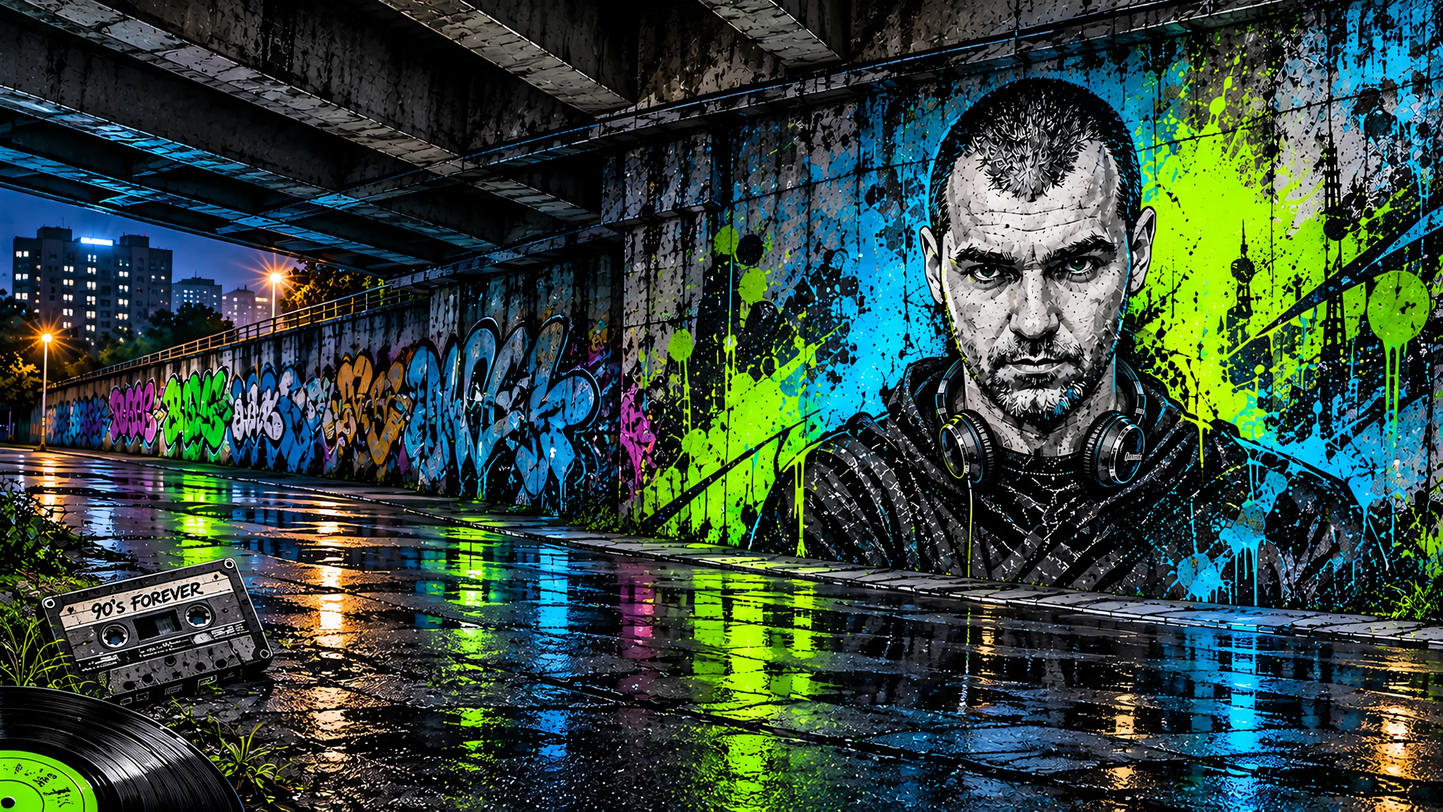
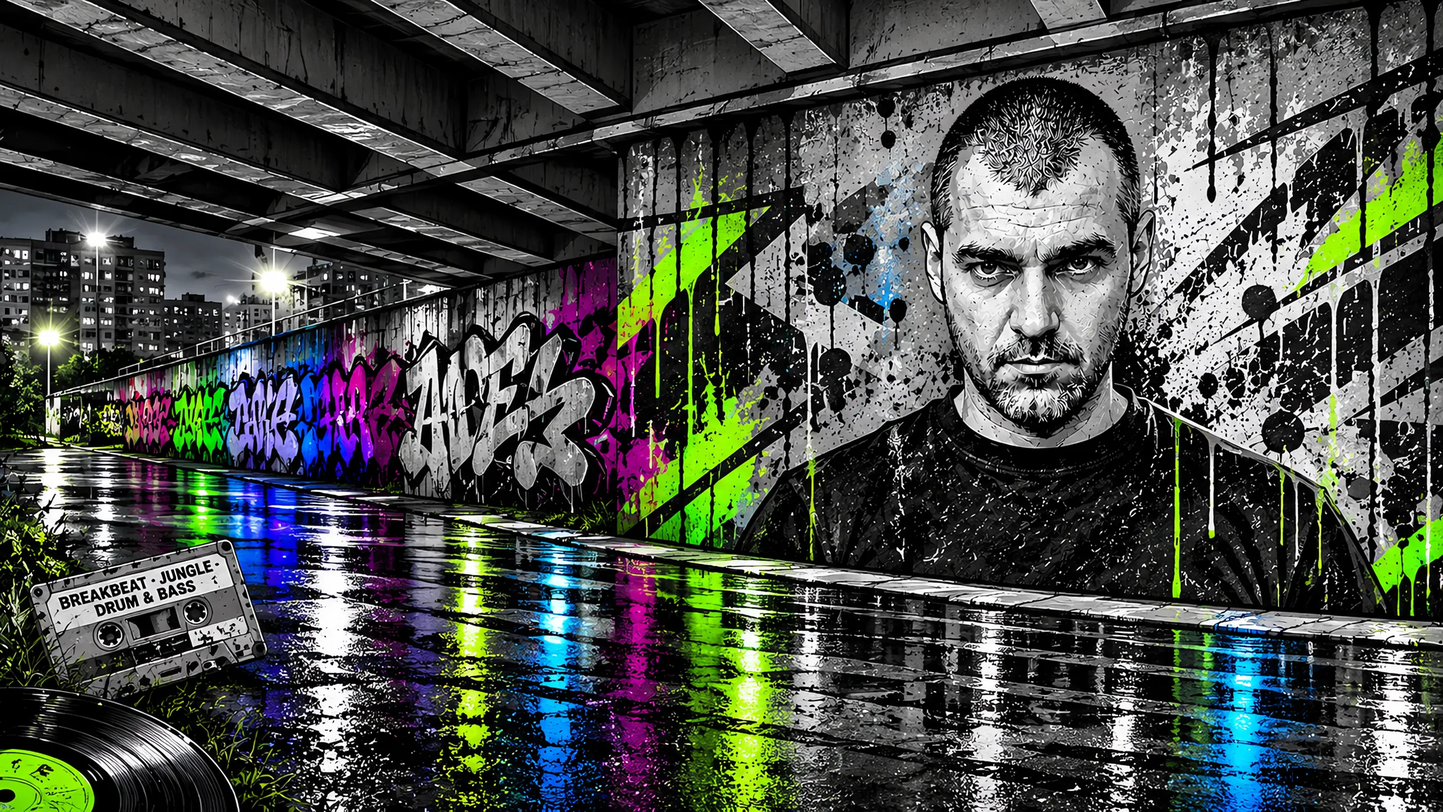
Новый фон главной от Лёши 26.11: ч/б стена с неоном, без наушников

diff --git a/sajt2/index.html b/sajt2/index.html
@@ -1,1 +1,1 @@
-<!doctype html><html lang="ru"><head><meta charset="utf-8"><meta name="robots" content="noindex, nofollow"><meta name="viewport" content="width=device-width,initial-scale=1,viewport-fit=cover"><title>Alex Freeman · DJ и продюсер, Ростов-на-Дону</title><meta name="description" content="Миксы и радиошоу «Наломали дров» Alex Freeman: слушайте прямо на сайте"><meta name="theme-color" content="#0B0D10"><link rel="icon" href="assets/af-96.webp"><link rel="preload" as="image" href="assets/ulica-mob-780.webp" media="(max-width:719px)"><link rel="preload" as="image" href="assets/ulica-1672.webp" imagesrcset="assets/ulica-960.webp 960w, assets/ulica-1672.webp 1672w, assets/ulica-2560.webp 2560w" imagesizes="100vw" media="(min-width:720px)"><link rel="preconnect" href="https://fonts.googleapis.com"><link rel="preconnect" href="https://fonts.gstatic.com" crossorigin><link href="https://fonts.googleapis.com/css2?family=Golos+Text:wght@400;500&family=Oswald:wght@400;500&display=swap" rel="stylesheet"><link rel="stylesheet" href="styles.css"><script src="app.js" defer></script><script src="plastinka.js" defer></script></head><body><a class="skip" href="#main">К содержанию</a><div class="top" role="banner"><div class="top__in"><a class="top__logo" href="index.html" aria-label="Alex Freeman, на главную"><img data-3d src="assets/af-192.webp" width="110" height="73" alt="AF"></a><nav class="nav" aria-label="Разделы"><a href="index.html" aria-current=page>Главная</a><a href="muzyka.html">Музыка</a><a href="nalomali-drov.html">Наломали дров</a><a href="strimy.html">Стримы</a><a href="vystupleniya.html">Выступления</a><a href="obo-mne.html">Обо мне</a><a href="novosti.html">Новости</a><a href="kontakty.html">Контакты</a></nav><div class="top__right"><a class="efir" href="nalomali-drov.html"><span class="efir__dot"></span><span class="efir__t">Эфир <span class="efir__day">в четверг </span><span class="efir__short">чт </span>22:00</span></a><a class="soc" href="https://t.me/AlexFreemanRostov" target="_blank" rel="noopener" aria-label="Telegram-канал"><svg viewBox="0 0 24 24" fill="currentColor" aria-hidden="true"><path d="M21.4 4.6 2.9 11.7c-1.3.5-1.3 1.2-.2 1.5l4.7 1.5 1.8 5.6c.2.6.1.9.8.9.5 0 .7-.2 1-.5l2.3-2.2 4.8 3.5c.9.5 1.5.2 1.7-.8l3.1-14.7c.3-1.3-.5-1.9-1.5-1.4ZM8.9 14.3l9.4-5.9c.5-.3.9-.1.5.2l-8 7.3-.3 3.4-1.6-5Z"/></svg></a><a class="soc soc--x" href="https://vk.com/alex_freeman_rnd" target="_blank" rel="noopener" aria-label="ВКонтакте"><svg viewBox="0 0 24 24" fill="currentColor" aria-hidden="true"><path d="m9.489.004.729-.003h3.564l.73.003.914.01.433.007.418.011.403.014.388.016.374.021.36.025.345.03.333.033c1.74.196 2.933.616 3.833 1.516.9.9 1.32 2.092 1.516 3.833l.034.333.029.346.025.36.02.373.025.588.012.41.013.644.009.915.004.98-.001 3.313-.003.73-.01.914-.007.433-.011.418-.014.403-.016.388-.021.374-.025.36-.03.345-.033.333c-.196 1.74-.616 2.933-1.516 3.833-.9.9-2.092 1.32-3.833 1.516l-.333.034-.346.029-.36.025-.373.02-.588.025-.41.012-.644.013-.915.009-.98.004-3.313-.001-.73-.003-.914-.01-.433-.007-.418-.011-.403-.014-.388-.016-.374-.021-.36-.025-.345-.03-.333-.033c-1.74-.196-2.933-.616-3.833-1.516-.9-.9-1.32-2.092-1.516-3.833l-.034-.333-.029-.346-.025-.36-.02-.373-.025-.588-.012-.41-.013-.644-.009-.915-.004-.98.001-3.313.003-.73.01-.914.007-.433.011-.418.014-.403.016-.388.021-.374.025-.36.03-.345.033-.333c.196-1.74.616-2.933 1.516-3.833.9-.9 2.092-1.32 3.833-1.516l.333-.034.346-.029.36-.025.373-.02.588-.025.41-.012.644-.013.915-.009ZM6.79 7.3H4.05c.13 6.24 3.25 9.99 8.72 9.99h.31v-3.57c2.01.2 3.53 1.67 4.14 3.57h2.84c-.78-2.84-2.83-4.41-4.11-5.01 1.28-.74 3.08-2.54 3.51-4.98h-2.58c-.56 1.98-2.22 3.78-3.8 3.95V7.3H10.5v6.92c-1.6-.4-3.62-2.34-3.71-6.92Z"/></svg></a><a class="soc soc--x" href="https://youtube.com/@alexfreemanrnd" target="_blank" rel="noopener" aria-label="YouTube"><svg viewBox="0 0 24 24" fill="currentColor" aria-hidden="true"><path d="M23.498 6.186a3.016 3.016 0 0 0-2.122-2.136C19.505 3.545 12 3.545 12 3.545s-7.505 0-9.377.505A3.017 3.017 0 0 0 .502 6.186C0 8.07 0 12 0 12s0 3.93.502 5.814a3.016 3.016 0 0 0 2.122 2.136c1.871.505 9.376.505 9.376.505s7.505 0 9.377-.505a3.015 3.015 0 0 0 2.122-2.136C24 15.93 24 12 24 12s0-3.93-.502-5.814zM9.545 15.568V8.432L15.818 12l-6.273 3.568z"/></svg></a><button class="burger" type="button" aria-label="Меню" aria-expanded="false" aria-controls="mnav"><svg viewBox="0 0 24 24" fill="none" stroke="currentColor" stroke-width="2" stroke-linecap="round" aria-hidden="true"><path d="M4 7h16M4 12h16M4 17h16"/></svg></button></div></div></div><nav class="mnav" id="mnav" aria-label="Разделы"><a href="index.html" aria-current=page>Главная</a><a href="muzyka.html">Музыка</a><a href="nalomali-drov.html">Наломали дров</a><a href="strimy.html">Стримы</a><a href="vystupleniya.html">Выступления</a><a href="obo-mne.html">Обо мне</a><a href="novosti.html">Новости</a><a href="kontakty.html">Контакты</a><div class="mnav__soc"><a class="soc" href="https://t.me/AlexFreemanRostov" target="_blank" rel="noopener" aria-label="Telegram-канал"><svg viewBox="0 0 24 24" fill="currentColor" aria-hidden="true"><path d="M21.4 4.6 2.9 11.7c-1.3.5-1.3 1.2-.2 1.5l4.7 1.5 1.8 5.6c.2.6.1.9.8.9.5 0 .7-.2 1-.5l2.3-2.2 4.8 3.5c.9.5 1.5.2 1.7-.8l3.1-14.7c.3-1.3-.5-1.9-1.5-1.4ZM8.9 14.3l9.4-5.9c.5-.3.9-.1.5.2l-8 7.3-.3 3.4-1.6-5Z"/></svg></a><a class="soc" href="https://vk.com/alex_freeman_rnd" target="_blank" rel="noopener" aria-label="ВКонтакте"><svg viewBox="0 0 24 24" fill="currentColor" aria-hidden="true"><path d="m9.489.004.729-.003h3.564l.73.003.914.01.433.007.418.011.403.014.388.016.374.021.36.025.345.03.333.033c1.74.196 2.933.616 3.833 1.516.9.9 1.32 2.092 1.516 3.833l.034.333.029.346.025.36.02.373.025.588.012.41.013.644.009.915.004.98-.001 3.313-.003.73-.01.914-.007.433-.011.418-.014.403-.016.388-.021.374-.025.36-.03.345-.033.333c-.196 1.74-.616 2.933-1.516 3.833-.9.9-2.092 1.32-3.833 1.516l-.333.034-.346.029-.36.025-.373.02-.588.025-.41.012-.644.013-.915.009-.98.004-3.313-.001-.73-.003-.914-.01-.433-.007-.418-.011-.403-.014-.388-.016-.374-.021-.36-.025-.345-.03-.333-.033c-1.74-.196-2.933-.616-3.833-1.516-.9-.9-1.32-2.092-1.516-3.833l-.034-.333-.029-.346-.025-.36-.02-.373-.025-.588-.012-.41-.013-.644-.009-.915-.004-.98.001-3.313.003-.73.01-.914.007-.433.011-.418.014-.403.016-.388.021-.374.025-.36.03-.345.033-.333c.196-1.74.616-2.933 1.516-3.833.9-.9 2.092-1.32 3.833-1.516l.333-.034.346-.029.36-.025.373-.02.588-.025.41-.012.644-.013.915-.009ZM6.79 7.3H4.05c.13 6.24 3.25 9.99 8.72 9.99h.31v-3.57c2.01.2 3.53 1.67 4.14 3.57h2.84c-.78-2.84-2.83-4.41-4.11-5.01 1.28-.74 3.08-2.54 3.51-4.98h-2.58c-.56 1.98-2.22 3.78-3.8 3.95V7.3H10.5v6.92c-1.6-.4-3.62-2.34-3.71-6.92Z"/></svg></a><a class="soc" href="https://youtube.com/@alexfreemanrnd" target="_blank" rel="noopener" aria-label="YouTube"><svg viewBox="0 0 24 24" fill="currentColor" aria-hidden="true"><path d="M23.498 6.186a3.016 3.016 0 0 0-2.122-2.136C19.505 3.545 12 3.545 12 3.545s-7.505 0-9.377.505A3.017 3.017 0 0 0 .502 6.186C0 8.07 0 12 0 12s0 3.93.502 5.814a3.016 3.016 0 0 0 2.122 2.136c1.871.505 9.376.505 9.376.505s7.505 0 9.377-.505a3.015 3.015 0 0 0 2.122-2.136C24 15.93 24 12 24 12s0-3.93-.502-5.814zM9.545 15.568V8.432L15.818 12l-6.273 3.568z"/></svg></a></div><button class="burger mnav__close" type="button" aria-label="Закрыть меню"><svg viewBox="0 0 24 24" fill="none" stroke="currentColor" stroke-width="2" stroke-linecap="round" aria-hidden="true"><path d="M6 6l12 12M18 6 6 18"/></svg></button></nav><main id="main"><section class="hero" id="hero" data-ideya="magnitola"><picture class="hero__bg"><source media="(max-width:719px)" srcset="assets/ulica-mob-780.webp"><img src="assets/ulica-1672.webp" srcset="assets/ulica-960.webp 960w, assets/ulica-1672.webp 1672w, assets/ulica-2560.webp 2560w" sizes="100vw" width="1672" height="941" alt="Ночная улица под мостом, на стене граффити-портрет Alex Freeman в наушниках" fetchpriority="high"></picture><div class="hero__body"><div class="hero__lead"><h1 class="hero__name"><img class="hero__af" data-3d src="assets/af-192.webp" width="160" height="107" alt=""><img class="hero__wm" src="assets/wordmark-720.webp" srcset="assets/wordmark-360.webp 360w, assets/wordmark-720.webp 720w" sizes="300px" width="300" height="207" alt="Alex Freeman"></h1><p class="hero__role">DJ и продюсер · <span class="nw">Ростов-на-Дону</span></p><button class="listen" type="button" aria-controls="magnitola" aria-expanded="false" data-open-mag data-vau="magnitola"><span class="listen__ic"><svg viewBox="0 0 24 24" fill="currentColor" aria-hidden="true"><path d="M6 4v16l14-8z"/></svg></span>Слушать миксы</button></div><nav class="tiles" aria-label="Главные разделы" data-ideya="plitki-stikery"><a class="tile" href="muzyka.html"><span class="tile__splash"><svg viewBox="0 0 140 140" fill="currentColor" aria-hidden="true"><path d="M70 22c9 0 11 14 20 15s16-9 22-2-6 14-1 22 19 6 19 16-14 8-17 16 9 19 1 25-16-5-24 0-6 20-17 20-10-15-19-17-18 10-24 3 6-15 2-23-18-6-19-16 15-9 15-18-12-15-5-22 15 4 22-3 0-16 9-16z"/><circle cx="122" cy="34" r="5"/><circle cx="22" cy="116" r="4"/><circle cx="118" cy="112" r="3"/><circle cx="18" cy="30" r="3"/></svg></span><span class="tile__ic"><svg viewBox="0 0 24 24" fill="none" stroke="currentColor" stroke-width="1.8" stroke-linecap="round" aria-hidden="true"><path d="M4 15v-3a8 8 0 0 1 16 0v3"/><rect x="3" y="14" width="4" height="7" rx="1.5"/><rect x="17" y="14" width="4" height="7" rx="1.5"/></svg></span><span class="tile__t">Музыка</span><span class="tile__s">Миксы и релизы</span><span class="tile__arr"><svg viewBox="0 0 24 24" fill="none" stroke="currentColor" stroke-width="2" stroke-linecap="round" stroke-linejoin="round" aria-hidden="true"><path d="M5 12h14M13 6l6 6-6 6"/></svg></span></a><a class="tile" href="nalomali-drov.html"><span class="tile__splash"><svg viewBox="0 0 140 140" fill="currentColor" aria-hidden="true"><path d="M70 22c9 0 11 14 20 15s16-9 22-2-6 14-1 22 19 6 19 16-14 8-17 16 9 19 1 25-16-5-24 0-6 20-17 20-10-15-19-17-18 10-24 3 6-15 2-23-18-6-19-16 15-9 15-18-12-15-5-22 15 4 22-3 0-16 9-16z"/><circle cx="122" cy="34" r="5"/><circle cx="22" cy="116" r="4"/><circle cx="118" cy="112" r="3"/><circle cx="18" cy="30" r="3"/></svg></span><span class="tile__ic"><svg viewBox="0 0 24 24" fill="none" stroke="currentColor" stroke-width="1.8" stroke-linecap="round" aria-hidden="true"><rect x="3" y="8" width="18" height="12" rx="2"/><path d="m7 8 9-5"/><circle cx="15.5" cy="14" r="2.5"/><path d="M6.5 12h3M6.5 15h3M6.5 18h3"/></svg></span><span class="tile__t">Наломали дров</span><span class="tile__s">Радиошоу</span><span class="tile__arr"><svg viewBox="0 0 24 24" fill="none" stroke="currentColor" stroke-width="2" stroke-linecap="round" stroke-linejoin="round" aria-hidden="true"><path d="M5 12h14M13 6l6 6-6 6"/></svg></span></a><a class="tile" href="strimy.html"><span class="tile__splash"><svg viewBox="0 0 140 140" fill="currentColor" aria-hidden="true"><path d="M70 22c9 0 11 14 20 15s16-9 22-2-6 14-1 22 19 6 19 16-14 8-17 16 9 19 1 25-16-5-24 0-6 20-17 20-10-15-19-17-18 10-24 3 6-15 2-23-18-6-19-16 15-9 15-18-12-15-5-22 15 4 22-3 0-16 9-16z"/><circle cx="122" cy="34" r="5"/><circle cx="22" cy="116" r="4"/><circle cx="118" cy="112" r="3"/><circle cx="18" cy="30" r="3"/></svg></span><span class="tile__ic"><svg viewBox="0 0 24 24" fill="none" stroke="currentColor" stroke-width="1.8" stroke-linejoin="round" aria-hidden="true"><rect x="2.5" y="4.5" width="19" height="15" rx="2.5"/><path d="M10 9v6l5-3z"/></svg></span><span class="tile__t">Стримы</span><span class="tile__s">Записи и видео</span><span class="tile__arr"><svg viewBox="0 0 24 24" fill="none" stroke="currentColor" stroke-width="2" stroke-linecap="round" stroke-linejoin="round" aria-hidden="true"><path d="M5 12h14M13 6l6 6-6 6"/></svg></span></a><a class="tile" href="vystupleniya.html"><span class="tile__splash"><svg viewBox="0 0 140 140" fill="currentColor" aria-hidden="true"><path d="M70 22c9 0 11 14 20 15s16-9 22-2-6 14-1 22 19 6 19 16-14 8-17 16 9 19 1 25-16-5-24 0-6 20-17 20-10-15-19-17-18 10-24 3 6-15 2-23-18-6-19-16 15-9 15-18-12-15-5-22 15 4 22-3 0-16 9-16z"/><circle cx="122" cy="34" r="5"/><circle cx="22" cy="116" r="4"/><circle cx="118" cy="112" r="3"/><circle cx="18" cy="30" r="3"/></svg></span><span class="tile__ic"><svg viewBox="0 0 24 24" fill="none" stroke="currentColor" stroke-width="1.8" stroke-linecap="round" aria-hidden="true"><rect x="3" y="5" width="18" height="16" rx="2"/><path d="M3 10h18M8 3v4M16 3v4M7.5 14h2M11 14h2M14.5 14h2M7.5 17.5h2M11 17.5h2"/></svg></span><span class="tile__t">Выступления</span><span class="tile__s">Афиши и фото</span><span class="tile__arr"><svg viewBox="0 0 24 24" fill="none" stroke="currentColor" stroke-width="2" stroke-linecap="round" stroke-linejoin="round" aria-hidden="true"><path d="M5 12h14M13 6l6 6-6 6"/></svg></span></a></nav></div></section><section class="sec" id="svezhee"><div class="wrap"><img class="kaplya" src="assets/kaplya.webp" width="112" height="217" alt="" loading="lazy"><h2 class="sec__h">Свежее</h2><div class="cards cards--2" role="region" aria-label="Свежие выпуски"><article class="card"><p class="card__k">Радиошоу</p><h3 class="card__t">Наломали дров #37</h3><p class="card__m">В гостях Beats'on&nbsp;· <span class="nw">19 ноября 2026&nbsp;· ESM FM</span></p><iframe class="player" src="https://audio.com/embed/v2/audio/1882230098701925?theme=custom&amp;themeSurface=%2314171C&amp;themeText=%23F2F2EE&amp;themeAccent=%2394F800&amp;themeStroke=%233A3A3A&amp;layout=flex" title="Плеер: Наломали дров #37" loading="lazy" referrerpolicy="no-referrer"></iframe><a class="more" href="nalomali-drov.html#vypuski">Все выпуски<svg viewBox="0 0 24 24" fill="none" stroke="currentColor" stroke-width="2" stroke-linecap="round" stroke-linejoin="round" aria-hidden="true"><path d="M5 12h14M13 6l6 6-6 6"/></svg></a></article><article class="card"><p class="card__k">Микс</p><h3 class="card__t">Микс от Alex Freeman</h3><p class="card__m">Наломали дров #12 · 28 мая 2026</p><iframe class="player" src="https://audio.com/embed/v2/audio/1881409443450464?theme=custom&amp;themeSurface=%2314171C&amp;themeText=%23F2F2EE&amp;themeAccent=%2394F800&amp;themeStroke=%233A3A3A&amp;layout=flex" title="Плеер: Наломали дров #12, микс Alex Freeman" loading="lazy" referrerpolicy="no-referrer"></iframe><a class="more" href="muzyka.html">Вся музыка<svg viewBox="0 0 24 24" fill="none" stroke="currentColor" stroke-width="2" stroke-linecap="round" stroke-linejoin="round" aria-hidden="true"><path d="M5 12h14M13 6l6 6-6 6"/></svg></a></article></div></div></section><section class="sec" id="blizhayshee"><div class="wrap"><div class="sec__row"><h2 class="sec__h">Где услышать</h2><a class="more" href="vystupleniya.html">Все выступления<svg viewBox="0 0 24 24" fill="none" stroke="currentColor" stroke-width="2" stroke-linecap="round" stroke-linejoin="round" aria-hidden="true"><path d="M5 12h14M13 6l6 6-6 6"/></svg></a></div><div class="cards cards--2"><article class="card"><p class="card__k">Вечеринка</p><div class="when"><span class="when__d">12 декабря · 21:00</span><span class="when__c" data-date="2026-12-12"></span></div><h3 class="card__t">THE PRODIGY RAVE TRIBUTE</h3><p class="card__m">«DRУГОЙ FORMAT» · К33<br><span class="nw">Красноармейская, 33</span>&nbsp;· <span class="nw">Ростов-на-Дону</span></p><a class="more more--pill" href="https://yandex.ru/maps/?text=%D0%A0%D0%BE%D1%81%D1%82%D0%BE%D0%B2-%D0%BD%D0%B0-%D0%94%D0%BE%D0%BD%D1%83%2C%20%D0%9A%D1%80%D0%B0%D1%81%D0%BD%D0%BE%D0%B0%D1%80%D0%BC%D0%B5%D0%B9%D1%81%D0%BA%D0%B0%D1%8F%2033" target="_blank" rel="noopener">Как добраться<span class="sr"> (откроется Яндекс Карты)</span><svg viewBox="0 0 24 24" fill="none" stroke="currentColor" stroke-width="2" stroke-linecap="round" stroke-linejoin="round" aria-hidden="true"><path d="M5 12h14M13 6l6 6-6 6"/></svg></a></article><article class="card"><p class="card__k">В эфире</p><div class="when"><span class="when__d">Каждый четверг · 22:00</span></div><h3 class="card__t card__t--s">Радиошоу «Наломали дров»</h3><p class="card__m">На ESM FM, время московское</p><a class="more" href="nalomali-drov.html">О радиошоу<svg viewBox="0 0 24 24" fill="none" stroke="currentColor" stroke-width="2" stroke-linecap="round" stroke-linejoin="round" aria-hidden="true"><path d="M5 12h14M13 6l6 6-6 6"/></svg></a></article></div></div></section></main><footer class="foot" id="podval"><div class="wrap foot__in"><div class="foot__brand"><img data-3d src="assets/af-96.webp" width="56" height="37" alt="" loading="lazy"><span>Alex Freeman<small>DJ и продюсер · <span class="nw">Ростов-на-Дону</span></small></span></div><nav class="foot__links" aria-label="Площадки"><a href="https://t.me/AlexFreemanRostov" target="_blank" rel="noopener"><svg viewBox="0 0 24 24" fill="currentColor" aria-hidden="true"><path d="M21.4 4.6 2.9 11.7c-1.3.5-1.3 1.2-.2 1.5l4.7 1.5 1.8 5.6c.2.6.1.9.8.9.5 0 .7-.2 1-.5l2.3-2.2 4.8 3.5c.9.5 1.5.2 1.7-.8l3.1-14.7c.3-1.3-.5-1.9-1.5-1.4ZM8.9 14.3l9.4-5.9c.5-.3.9-.1.5.2l-8 7.3-.3 3.4-1.6-5Z"/></svg>Telegram<span class="sr"> (в новой вкладке)</span></a><a href="https://vk.com/alex_freeman_rnd" target="_blank" rel="noopener"><svg viewBox="0 0 24 24" fill="currentColor" aria-hidden="true"><path d="m9.489.004.729-.003h3.564l.73.003.914.01.433.007.418.011.403.014.388.016.374.021.36.025.345.03.333.033c1.74.196 2.933.616 3.833 1.516.9.9 1.32 2.092 1.516 3.833l.034.333.029.346.025.36.02.373.025.588.012.41.013.644.009.915.004.98-.001 3.313-.003.73-.01.914-.007.433-.011.418-.014.403-.016.388-.021.374-.025.36-.03.345-.033.333c-.196 1.74-.616 2.933-1.516 3.833-.9.9-2.092 1.32-3.833 1.516l-.333.034-.346.029-.36.025-.373.02-.588.025-.41.012-.644.013-.915.009-.98.004-3.313-.001-.73-.003-.914-.01-.433-.007-.418-.011-.403-.014-.388-.016-.374-.021-.36-.025-.345-.03-.333-.033c-1.74-.196-2.933-.616-3.833-1.516-.9-.9-1.32-2.092-1.516-3.833l-.034-.333-.029-.346-.025-.36-.02-.373-.025-.588-.012-.41-.013-.644-.009-.915-.004-.98.001-3.313.003-.73.01-.914.007-.433.011-.418.014-.403.016-.388.021-.374.025-.36.03-.345.033-.333c.196-1.74.616-2.933 1.516-3.833.9-.9 2.092-1.32 3.833-1.516l.333-.034.346-.029.36-.025.373-.02.588-.025.41-.012.644-.013.915-.009ZM6.79 7.3H4.05c.13 6.24 3.25 9.99 8.72 9.99h.31v-3.57c2.01.2 3.53 1.67 4.14 3.57h2.84c-.78-2.84-2.83-4.41-4.11-5.01 1.28-.74 3.08-2.54 3.51-4.98h-2.58c-.56 1.98-2.22 3.78-3.8 3.95V7.3H10.5v6.92c-1.6-.4-3.62-2.34-3.71-6.92Z"/></svg>ВКонтакте<span class="sr"> (в новой вкладке)</span></a><a href="https://youtube.com/@alexfreemanrnd" target="_blank" rel="noopener"><svg viewBox="0 0 24 24" fill="currentColor" aria-hidden="true"><path d="M23.498 6.186a3.016 3.016 0 0 0-2.122-2.136C19.505 3.545 12 3.545 12 3.545s-7.505 0-9.377.505A3.017 3.017 0 0 0 .502 6.186C0 8.07 0 12 0 12s0 3.93.502 5.814a3.016 3.016 0 0 0 2.122 2.136c1.871.505 9.376.505 9.376.505s7.505 0 9.377-.505a3.015 3.015 0 0 0 2.122-2.136C24 15.93 24 12 24 12s0-3.93-.502-5.814zM9.545 15.568V8.432L15.818 12l-6.273 3.568z"/></svg>YouTube<span class="sr"> (в новой вкладке)</span></a><a href="https://vkvideo.ru/@worldhousesession" target="_blank" rel="noopener"><svg viewBox="0 0 24 24" fill="none" stroke="currentColor" stroke-width="1.8" stroke-linejoin="round" aria-hidden="true"><rect x="2.5" y="4.5" width="19" height="15" rx="2.5"/><path d="M10 9v6l5-3z"/></svg>VK Видео<span class="sr"> (в новой вкладке)</span></a><a href="https://rutube.ru/channel/15649489/" target="_blank" rel="noopener"><svg viewBox="0 0 24 24" fill="none" stroke="currentColor" stroke-width="1.8" stroke-linejoin="round" aria-hidden="true"><rect x="2.5" y="4.5" width="19" height="15" rx="2.5"/><path d="M10 9v6l5-3z"/></svg>Rutube<span class="sr"> (в новой вкладке)</span></a></nav><p class="foot__by">Создано: <a href="https://chelovek-neiroset.ru/" target="_blank" rel="noopener">Студия Vikey AI<span class="sr"> (в новой вкладке)</span></a></p></div></footer><aside class="mag" id="magnitola" aria-label="Плеер" aria-hidden="true"><div class="mag__bar"><span class="mag__rec mag__cas"><svg viewBox="0 0 40 28" aria-hidden="true"><rect x="1" y="1" width="38" height="26" rx="3" fill="#0B0D10" stroke="currentColor" stroke-width="1.5"/><rect x="6" y="5" width="28" height="6" rx="1" fill="none" stroke="rgba(242,242,238,.5)"/><circle cx="13" cy="18" r="3.5" fill="none" stroke="currentColor"/><circle cx="27" cy="18" r="3.5" fill="none" stroke="currentColor"/><path d="M9 27l3-4h16l3 4" fill="none" stroke="rgba(242,242,238,.4)"/></svg></span><p class="mag__t">Микс от Alex Freeman <span class="mag__hint">нажмите, чтобы развернуть</span> <small>Наломали дров #12 · 28 мая 2026</small></p><button class="mag__btn mag__min" type="button" aria-label="Свернуть плеер" aria-expanded="true" aria-controls="magbody"><svg viewBox="0 0 24 24" fill="none" stroke="currentColor" stroke-width="2" stroke-linecap="round" stroke-linejoin="round" aria-hidden="true"><path d="m6 9 6 6 6-6"/></svg></button><button class="mag__btn mag__close" type="button" aria-label="Закрыть плеер"><svg viewBox="0 0 24 24" fill="none" stroke="currentColor" stroke-width="2" stroke-linecap="round" aria-hidden="true"><path d="M6 6l12 12M18 6 6 18"/></svg></button></div><div class="mag__body" id="magbody"></div></aside></body></html>
+<!doctype html><html lang="ru"><head><meta charset="utf-8"><meta name="robots" content="noindex, nofollow"><meta name="viewport" content="width=device-width,initial-scale=1,viewport-fit=cover"><title>Alex Freeman · DJ и продюсер, Ростов-на-Дону</title><meta name="description" content="Миксы и радиошоу «Наломали дров» Alex Freeman: слушайте прямо на сайте"><meta name="theme-color" content="#0B0D10"><link rel="icon" href="assets/af-96.webp"><link rel="preload" as="image" href="assets/ulica-mob-780.webp" media="(max-width:719px)"><link rel="preload" as="image" href="assets/ulica-1672.webp" imagesrcset="assets/ulica-960.webp 960w, assets/ulica-1672.webp 1672w, assets/ulica-2560.webp 2560w" imagesizes="100vw" media="(min-width:720px)"><link rel="preconnect" href="https://fonts.googleapis.com"><link rel="preconnect" href="https://fonts.gstatic.com" crossorigin><link href="https://fonts.googleapis.com/css2?family=Golos+Text:wght@400;500&family=Oswald:wght@400;500&display=swap" rel="stylesheet"><link rel="stylesheet" href="styles.css"><script src="app.js" defer></script><script src="plastinka.js" defer></script></head><body><a class="skip" href="#main">К содержанию</a><div class="top" role="banner"><div class="top__in"><a class="top__logo" href="index.html" aria-label="Alex Freeman, на главную"><img data-3d src="assets/af-192.webp" width="110" height="73" alt="AF"></a><nav class="nav" aria-label="Разделы"><a href="index.html" aria-current=page>Главная</a><a href="muzyka.html">Музыка</a><a href="nalomali-drov.html">Наломали дров</a><a href="strimy.html">Стримы</a><a href="vystupleniya.html">Выступления</a><a href="obo-mne.html">Обо мне</a><a href="novosti.html">Новости</a><a href="kontakty.html">Контакты</a></nav><div class="top__right"><a class="efir" href="nalomali-drov.html"><span class="efir__dot"></span><span class="efir__t">Эфир <span class="efir__day">в четверг </span><span class="efir__short">чт </span>22:00</span></a><a class="soc" href="https://t.me/AlexFreemanRostov" target="_blank" rel="noopener" aria-label="Telegram-канал"><svg viewBox="0 0 24 24" fill="currentColor" aria-hidden="true"><path d="M21.4 4.6 2.9 11.7c-1.3.5-1.3 1.2-.2 1.5l4.7 1.5 1.8 5.6c.2.6.1.9.8.9.5 0 .7-.2 1-.5l2.3-2.2 4.8 3.5c.9.5 1.5.2 1.7-.8l3.1-14.7c.3-1.3-.5-1.9-1.5-1.4ZM8.9 14.3l9.4-5.9c.5-.3.9-.1.5.2l-8 7.3-.3 3.4-1.6-5Z"/></svg></a><a class="soc soc--x" href="https://vk.com/alex_freeman_rnd" target="_blank" rel="noopener" aria-label="ВКонтакте"><svg viewBox="0 0 24 24" fill="currentColor" aria-hidden="true"><path d="m9.489.004.729-.003h3.564l.73.003.914.01.433.007.418.011.403.014.388.016.374.021.36.025.345.03.333.033c1.74.196 2.933.616 3.833 1.516.9.9 1.32 2.092 1.516 3.833l.034.333.029.346.025.36.02.373.025.588.012.41.013.644.009.915.004.98-.001 3.313-.003.73-.01.914-.007.433-.011.418-.014.403-.016.388-.021.374-.025.36-.03.345-.033.333c-.196 1.74-.616 2.933-1.516 3.833-.9.9-2.092 1.32-3.833 1.516l-.333.034-.346.029-.36.025-.373.02-.588.025-.41.012-.644.013-.915.009-.98.004-3.313-.001-.73-.003-.914-.01-.433-.007-.418-.011-.403-.014-.388-.016-.374-.021-.36-.025-.345-.03-.333-.033c-1.74-.196-2.933-.616-3.833-1.516-.9-.9-1.32-2.092-1.516-3.833l-.034-.333-.029-.346-.025-.36-.02-.373-.025-.588-.012-.41-.013-.644-.009-.915-.004-.98.001-3.313.003-.73.01-.914.007-.433.011-.418.014-.403.016-.388.021-.374.025-.36.03-.345.033-.333c.196-1.74.616-2.933 1.516-3.833.9-.9 2.092-1.32 3.833-1.516l.333-.034.346-.029.36-.025.373-.02.588-.025.41-.012.644-.013.915-.009ZM6.79 7.3H4.05c.13 6.24 3.25 9.99 8.72 9.99h.31v-3.57c2.01.2 3.53 1.67 4.14 3.57h2.84c-.78-2.84-2.83-4.41-4.11-5.01 1.28-.74 3.08-2.54 3.51-4.98h-2.58c-.56 1.98-2.22 3.78-3.8 3.95V7.3H10.5v6.92c-1.6-.4-3.62-2.34-3.71-6.92Z"/></svg></a><a class="soc soc--x" href="https://youtube.com/@alexfreemanrnd" target="_blank" rel="noopener" aria-label="YouTube"><svg viewBox="0 0 24 24" fill="currentColor" aria-hidden="true"><path d="M23.498 6.186a3.016 3.016 0 0 0-2.122-2.136C19.505 3.545 12 3.545 12 3.545s-7.505 0-9.377.505A3.017 3.017 0 0 0 .502 6.186C0 8.07 0 12 0 12s0 3.93.502 5.814a3.016 3.016 0 0 0 2.122 2.136c1.871.505 9.376.505 9.376.505s7.505 0 9.377-.505a3.015 3.015 0 0 0 2.122-2.136C24 15.93 24 12 24 12s0-3.93-.502-5.814zM9.545 15.568V8.432L15.818 12l-6.273 3.568z"/></svg></a><button class="burger" type="button" aria-label="Меню" aria-expanded="false" aria-controls="mnav"><svg viewBox="0 0 24 24" fill="none" stroke="currentColor" stroke-width="2" stroke-linecap="round" aria-hidden="true"><path d="M4 7h16M4 12h16M4 17h16"/></svg></button></div></div></div><nav class="mnav" id="mnav" aria-label="Разделы"><a href="index.html" aria-current=page>Главная</a><a href="muzyka.html">Музыка</a><a href="nalomali-drov.html">Наломали дров</a><a href="strimy.html">Стримы</a><a href="vystupleniya.html">Выступления</a><a href="obo-mne.html">Обо мне</a><a href="novosti.html">Новости</a><a href="kontakty.html">Контакты</a><div class="mnav__soc"><a class="soc" href="https://t.me/AlexFreemanRostov" target="_blank" rel="noopener" aria-label="Telegram-канал"><svg viewBox="0 0 24 24" fill="currentColor" aria-hidden="true"><path d="M21.4 4.6 2.9 11.7c-1.3.5-1.3 1.2-.2 1.5l4.7 1.5 1.8 5.6c.2.6.1.9.8.9.5 0 .7-.2 1-.5l2.3-2.2 4.8 3.5c.9.5 1.5.2 1.7-.8l3.1-14.7c.3-1.3-.5-1.9-1.5-1.4ZM8.9 14.3l9.4-5.9c.5-.3.9-.1.5.2l-8 7.3-.3 3.4-1.6-5Z"/></svg></a><a class="soc" href="https://vk.com/alex_freeman_rnd" target="_blank" rel="noopener" aria-label="ВКонтакте"><svg viewBox="0 0 24 24" fill="currentColor" aria-hidden="true"><path d="m9.489.004.729-.003h3.564l.73.003.914.01.433.007.418.011.403.014.388.016.374.021.36.025.345.03.333.033c1.74.196 2.933.616 3.833 1.516.9.9 1.32 2.092 1.516 3.833l.034.333.029.346.025.36.02.373.025.588.012.41.013.644.009.915.004.98-.001 3.313-.003.73-.01.914-.007.433-.011.418-.014.403-.016.388-.021.374-.025.36-.03.345-.033.333c-.196 1.74-.616 2.933-1.516 3.833-.9.9-2.092 1.32-3.833 1.516l-.333.034-.346.029-.36.025-.373.02-.588.025-.41.012-.644.013-.915.009-.98.004-3.313-.001-.73-.003-.914-.01-.433-.007-.418-.011-.403-.014-.388-.016-.374-.021-.36-.025-.345-.03-.333-.033c-1.74-.196-2.933-.616-3.833-1.516-.9-.9-1.32-2.092-1.516-3.833l-.034-.333-.029-.346-.025-.36-.02-.373-.025-.588-.012-.41-.013-.644-.009-.915-.004-.98.001-3.313.003-.73.01-.914.007-.433.011-.418.014-.403.016-.388.021-.374.025-.36.03-.345.033-.333c.196-1.74.616-2.933 1.516-3.833.9-.9 2.092-1.32 3.833-1.516l.333-.034.346-.029.36-.025.373-.02.588-.025.41-.012.644-.013.915-.009ZM6.79 7.3H4.05c.13 6.24 3.25 9.99 8.72 9.99h.31v-3.57c2.01.2 3.53 1.67 4.14 3.57h2.84c-.78-2.84-2.83-4.41-4.11-5.01 1.28-.74 3.08-2.54 3.51-4.98h-2.58c-.56 1.98-2.22 3.78-3.8 3.95V7.3H10.5v6.92c-1.6-.4-3.62-2.34-3.71-6.92Z"/></svg></a><a class="soc" href="https://youtube.com/@alexfreemanrnd" target="_blank" rel="noopener" aria-label="YouTube"><svg viewBox="0 0 24 24" fill="currentColor" aria-hidden="true"><path d="M23.498 6.186a3.016 3.016 0 0 0-2.122-2.136C19.505 3.545 12 3.545 12 3.545s-7.505 0-9.377.505A3.017 3.017 0 0 0 .502 6.186C0 8.07 0 12 0 12s0 3.93.502 5.814a3.016 3.016 0 0 0 2.122 2.136c1.871.505 9.376.505 9.376.505s7.505 0 9.377-.505a3.015 3.015 0 0 0 2.122-2.136C24 15.93 24 12 24 12s0-3.93-.502-5.814zM9.545 15.568V8.432L15.818 12l-6.273 3.568z"/></svg></a></div><button class="burger mnav__close" type="button" aria-label="Закрыть меню"><svg viewBox="0 0 24 24" fill="none" stroke="currentColor" stroke-width="2" stroke-linecap="round" aria-hidden="true"><path d="M6 6l12 12M18 6 6 18"/></svg></button></nav><main id="main"><section class="hero" id="hero" data-ideya="magnitola"><picture class="hero__bg"><source media="(max-width:719px)" srcset="assets/ulica-mob-780.webp"><img src="assets/ulica-1672.webp" srcset="assets/ulica-960.webp 960w, assets/ulica-1672.webp 1672w, assets/ulica-2560.webp 2560w" sizes="100vw" width="1672" height="941" alt="Ночная улица под мостом, на стене граффити-портрет Alex Freeman" fetchpriority="high"></picture><div class="hero__body"><div class="hero__lead"><h1 class="hero__name"><img class="hero__af" data-3d src="assets/af-192.webp" width="160" height="107" alt=""><img class="hero__wm" src="assets/wordmark-720.webp" srcset="assets/wordmark-360.webp 360w, assets/wordmark-720.webp 720w" sizes="300px" width="300" height="207" alt="Alex Freeman"></h1><p class="hero__role">DJ и продюсер · <span class="nw">Ростов-на-Дону</span></p><button class="listen" type="button" aria-controls="magnitola" aria-expanded="false" data-open-mag data-vau="magnitola"><span class="listen__ic"><svg viewBox="0 0 24 24" fill="currentColor" aria-hidden="true"><path d="M6 4v16l14-8z"/></svg></span>Слушать миксы</button></div><nav class="tiles" aria-label="Главные разделы" data-ideya="plitki-stikery"><a class="tile" href="muzyka.html"><span class="tile__splash"><svg viewBox="0 0 140 140" fill="currentColor" aria-hidden="true"><path d="M70 22c9 0 11 14 20 15s16-9 22-2-6 14-1 22 19 6 19 16-14 8-17 16 9 19 1 25-16-5-24 0-6 20-17 20-10-15-19-17-18 10-24 3 6-15 2-23-18-6-19-16 15-9 15-18-12-15-5-22 15 4 22-3 0-16 9-16z"/><circle cx="122" cy="34" r="5"/><circle cx="22" cy="116" r="4"/><circle cx="118" cy="112" r="3"/><circle cx="18" cy="30" r="3"/></svg></span><span class="tile__ic"><svg viewBox="0 0 24 24" fill="none" stroke="currentColor" stroke-width="1.8" stroke-linecap="round" aria-hidden="true"><path d="M4 15v-3a8 8 0 0 1 16 0v3"/><rect x="3" y="14" width="4" height="7" rx="1.5"/><rect x="17" y="14" width="4" height="7" rx="1.5"/></svg></span><span class="tile__t">Музыка</span><span class="tile__s">Миксы и релизы</span><span class="tile__arr"><svg viewBox="0 0 24 24" fill="none" stroke="currentColor" stroke-width="2" stroke-linecap="round" stroke-linejoin="round" aria-hidden="true"><path d="M5 12h14M13 6l6 6-6 6"/></svg></span></a><a class="tile" href="nalomali-drov.html"><span class="tile__splash"><svg viewBox="0 0 140 140" fill="currentColor" aria-hidden="true"><path d="M70 22c9 0 11 14 20 15s16-9 22-2-6 14-1 22 19 6 19 16-14 8-17 16 9 19 1 25-16-5-24 0-6 20-17 20-10-15-19-17-18 10-24 3 6-15 2-23-18-6-19-16 15-9 15-18-12-15-5-22 15 4 22-3 0-16 9-16z"/><circle cx="122" cy="34" r="5"/><circle cx="22" cy="116" r="4"/><circle cx="118" cy="112" r="3"/><circle cx="18" cy="30" r="3"/></svg></span><span class="tile__ic"><svg viewBox="0 0 24 24" fill="none" stroke="currentColor" stroke-width="1.8" stroke-linecap="round" aria-hidden="true"><rect x="3" y="8" width="18" height="12" rx="2"/><path d="m7 8 9-5"/><circle cx="15.5" cy="14" r="2.5"/><path d="M6.5 12h3M6.5 15h3M6.5 18h3"/></svg></span><span class="tile__t">Наломали дров</span><span class="tile__s">Радиошоу</span><span class="tile__arr"><svg viewBox="0 0 24 24" fill="none" stroke="currentColor" stroke-width="2" stroke-linecap="round" stroke-linejoin="round" aria-hidden="true"><path d="M5 12h14M13 6l6 6-6 6"/></svg></span></a><a class="tile" href="strimy.html"><span class="tile__splash"><svg viewBox="0 0 140 140" fill="currentColor" aria-hidden="true"><path d="M70 22c9 0 11 14 20 15s16-9 22-2-6 14-1 22 19 6 19 16-14 8-17 16 9 19 1 25-16-5-24 0-6 20-17 20-10-15-19-17-18 10-24 3 6-15 2-23-18-6-19-16 15-9 15-18-12-15-5-22 15 4 22-3 0-16 9-16z"/><circle cx="122" cy="34" r="5"/><circle cx="22" cy="116" r="4"/><circle cx="118" cy="112" r="3"/><circle cx="18" cy="30" r="3"/></svg></span><span class="tile__ic"><svg viewBox="0 0 24 24" fill="none" stroke="currentColor" stroke-width="1.8" stroke-linejoin="round" aria-hidden="true"><rect x="2.5" y="4.5" width="19" height="15" rx="2.5"/><path d="M10 9v6l5-3z"/></svg></span><span class="tile__t">Стримы</span><span class="tile__s">Записи и видео</span><span class="tile__arr"><svg viewBox="0 0 24 24" fill="none" stroke="currentColor" stroke-width="2" stroke-linecap="round" stroke-linejoin="round" aria-hidden="true"><path d="M5 12h14M13 6l6 6-6 6"/></svg></span></a><a class="tile" href="vystupleniya.html"><span class="tile__splash"><svg viewBox="0 0 140 140" fill="currentColor" aria-hidden="true"><path d="M70 22c9 0 11 14 20 15s16-9 22-2-6 14-1 22 19 6 19 16-14 8-17 16 9 19 1 25-16-5-24 0-6 20-17 20-10-15-19-17-18 10-24 3 6-15 2-23-18-6-19-16 15-9 15-18-12-15-5-22 15 4 22-3 0-16 9-16z"/><circle cx="122" cy="34" r="5"/><circle cx="22" cy="116" r="4"/><circle cx="118" cy="112" r="3"/><circle cx="18" cy="30" r="3"/></svg></span><span class="tile__ic"><svg viewBox="0 0 24 24" fill="none" stroke="currentColor" stroke-width="1.8" stroke-linecap="round" aria-hidden="true"><rect x="3" y="5" width="18" height="16" rx="2"/><path d="M3 10h18M8 3v4M16 3v4M7.5 14h2M11 14h2M14.5 14h2M7.5 17.5h2M11 17.5h2"/></svg></span><span class="tile__t">Выступления</span><span class="tile__s">Афиши и фото</span><span class="tile__arr"><svg viewBox="0 0 24 24" fill="none" stroke="currentColor" stroke-width="2" stroke-linecap="round" stroke-linejoin="round" aria-hidden="true"><path d="M5 12h14M13 6l6 6-6 6"/></svg></span></a></nav></div></section><section class="sec" id="svezhee"><div class="wrap"><img class="kaplya" src="assets/kaplya.webp" width="112" height="217" alt="" loading="lazy"><h2 class="sec__h">Свежее</h2><div class="cards cards--2" role="region" aria-label="Свежие выпуски"><article class="card"><p class="card__k">Радиошоу</p><h3 class="card__t">Наломали дров #37</h3><p class="card__m">В гостях Beats'on&nbsp;· <span class="nw">19 ноября 2026&nbsp;· ESM FM</span></p><iframe class="player" src="https://audio.com/embed/v2/audio/1882230098701925?theme=custom&amp;themeSurface=%2314171C&amp;themeText=%23F2F2EE&amp;themeAccent=%2394F800&amp;themeStroke=%233A3A3A&amp;layout=flex" title="Плеер: Наломали дров #37" loading="lazy" referrerpolicy="no-referrer"></iframe><a class="more" href="nalomali-drov.html#vypuski">Все выпуски<svg viewBox="0 0 24 24" fill="none" stroke="currentColor" stroke-width="2" stroke-linecap="round" stroke-linejoin="round" aria-hidden="true"><path d="M5 12h14M13 6l6 6-6 6"/></svg></a></article><article class="card"><p class="card__k">Микс</p><h3 class="card__t">Микс от Alex Freeman</h3><p class="card__m">Наломали дров #12 · 28 мая 2026</p><iframe class="player" src="https://audio.com/embed/v2/audio/1881409443450464?theme=custom&amp;themeSurface=%2314171C&amp;themeText=%23F2F2EE&amp;themeAccent=%2394F800&amp;themeStroke=%233A3A3A&amp;layout=flex" title="Плеер: Наломали дров #12, микс Alex Freeman" loading="lazy" referrerpolicy="no-referrer"></iframe><a class="more" href="muzyka.html">Вся музыка<svg viewBox="0 0 24 24" fill="none" stroke="currentColor" stroke-width="2" stroke-linecap="round" stroke-linejoin="round" aria-hidden="true"><path d="M5 12h14M13 6l6 6-6 6"/></svg></a></article></div></div></section><section class="sec" id="blizhayshee"><div class="wrap"><div class="sec__row"><h2 class="sec__h">Где услышать</h2><a class="more" href="vystupleniya.html">Все выступления<svg viewBox="0 0 24 24" fill="none" stroke="currentColor" stroke-width="2" stroke-linecap="round" stroke-linejoin="round" aria-hidden="true"><path d="M5 12h14M13 6l6 6-6 6"/></svg></a></div><div class="cards cards--2"><article class="card"><p class="card__k">Вечеринка</p><div class="when"><span class="when__d">12 декабря · 21:00</span><span class="when__c" data-date="2026-12-12"></span></div><h3 class="card__t">THE PRODIGY RAVE TRIBUTE</h3><p class="card__m">«DRУГОЙ FORMAT» · К33<br><span class="nw">Красноармейская, 33</span>&nbsp;· <span class="nw">Ростов-на-Дону</span></p><a class="more more--pill" href="https://yandex.ru/maps/?text=%D0%A0%D0%BE%D1%81%D1%82%D0%BE%D0%B2-%D0%BD%D0%B0-%D0%94%D0%BE%D0%BD%D1%83%2C%20%D0%9A%D1%80%D0%B0%D1%81%D0%BD%D0%BE%D0%B0%D1%80%D0%BC%D0%B5%D0%B9%D1%81%D0%BA%D0%B0%D1%8F%2033" target="_blank" rel="noopener">Как добраться<span class="sr"> (откроется Яндекс Карты)</span><svg viewBox="0 0 24 24" fill="none" stroke="currentColor" stroke-width="2" stroke-linecap="round" stroke-linejoin="round" aria-hidden="true"><path d="M5 12h14M13 6l6 6-6 6"/></svg></a></article><article class="card"><p class="card__k">В эфире</p><div class="when"><span class="when__d">Каждый четверг · 22:00</span></div><h3 class="card__t card__t--s">Радиошоу «Наломали дров»</h3><p class="card__m">На ESM FM, время московское</p><a class="more" href="nalomali-drov.html">О радиошоу<svg viewBox="0 0 24 24" fill="none" stroke="currentColor" stroke-width="2" stroke-linecap="round" stroke-linejoin="round" aria-hidden="true"><path d="M5 12h14M13 6l6 6-6 6"/></svg></a></article></div></div></section></main><footer class="foot" id="podval"><div class="wrap foot__in"><div class="foot__brand"><img data-3d src="assets/af-96.webp" width="56" height="37" alt="" loading="lazy"><span>Alex Freeman<small>DJ и продюсер · <span class="nw">Ростов-на-Дону</span></small></span></div><nav class="foot__links" aria-label="Площадки"><a href="https://t.me/AlexFreemanRostov" target="_blank" rel="noopener"><svg viewBox="0 0 24 24" fill="currentColor" aria-hidden="true"><path d="M21.4 4.6 2.9 11.7c-1.3.5-1.3 1.2-.2 1.5l4.7 1.5 1.8 5.6c.2.6.1.9.8.9.5 0 .7-.2 1-.5l2.3-2.2 4.8 3.5c.9.5 1.5.2 1.7-.8l3.1-14.7c.3-1.3-.5-1.9-1.5-1.4ZM8.9 14.3l9.4-5.9c.5-.3.9-.1.5.2l-8 7.3-.3 3.4-1.6-5Z"/></svg>Telegram<span class="sr"> (в новой вкладке)</span></a><a href="https://vk.com/alex_freeman_rnd" target="_blank" rel="noopener"><svg viewBox="0 0 24 24" fill="currentColor" aria-hidden="true"><path d="m9.489.004.729-.003h3.564l.73.003.914.01.433.007.418.011.403.014.388.016.374.021.36.025.345.03.333.033c1.74.196 2.933.616 3.833 1.516.9.9 1.32 2.092 1.516 3.833l.034.333.029.346.025.36.02.373.025.588.012.41.013.644.009.915.004.98-.001 3.313-.003.73-.01.914-.007.433-.011.418-.014.403-.016.388-.021.374-.025.36-.03.345-.033.333c-.196 1.74-.616 2.933-1.516 3.833-.9.9-2.092 1.32-3.833 1.516l-.333.034-.346.029-.36.025-.373.02-.588.025-.41.012-.644.013-.915.009-.98.004-3.313-.001-.73-.003-.914-.01-.433-.007-.418-.011-.403-.014-.388-.016-.374-.021-.36-.025-.345-.03-.333-.033c-1.74-.196-2.933-.616-3.833-1.516-.9-.9-1.32-2.092-1.516-3.833l-.034-.333-.029-.346-.025-.36-.02-.373-.025-.588-.012-.41-.013-.644-.009-.915-.004-.98.001-3.313.003-.73.01-.914.007-.433.011-.418.014-.403.016-.388.021-.374.025-.36.03-.345.033-.333c.196-1.74.616-2.933 1.516-3.833.9-.9 2.092-1.32 3.833-1.516l.333-.034.346-.029.36-.025.373-.02.588-.025.41-.012.644-.013.915-.009ZM6.79 7.3H4.05c.13 6.24 3.25 9.99 8.72 9.99h.31v-3.57c2.01.2 3.53 1.67 4.14 3.57h2.84c-.78-2.84-2.83-4.41-4.11-5.01 1.28-.74 3.08-2.54 3.51-4.98h-2.58c-.56 1.98-2.22 3.78-3.8 3.95V7.3H10.5v6.92c-1.6-.4-3.62-2.34-3.71-6.92Z"/></svg>ВКонтакте<span class="sr"> (в новой вкладке)</span></a><a href="https://youtube.com/@alexfreemanrnd" target="_blank" rel="noopener"><svg viewBox="0 0 24 24" fill="currentColor" aria-hidden="true"><path d="M23.498 6.186a3.016 3.016 0 0 0-2.122-2.136C19.505 3.545 12 3.545 12 3.545s-7.505 0-9.377.505A3.017 3.017 0 0 0 .502 6.186C0 8.07 0 12 0 12s0 3.93.502 5.814a3.016 3.016 0 0 0 2.122 2.136c1.871.505 9.376.505 9.376.505s7.505 0 9.377-.505a3.015 3.015 0 0 0 2.122-2.136C24 15.93 24 12 24 12s0-3.93-.502-5.814zM9.545 15.568V8.432L15.818 12l-6.273 3.568z"/></svg>YouTube<span class="sr"> (в новой вкладке)</span></a><a href="https://vkvideo.ru/@worldhousesession" target="_blank" rel="noopener"><svg viewBox="0 0 24 24" fill="none" stroke="currentColor" stroke-width="1.8" stroke-linejoin="round" aria-hidden="true"><rect x="2.5" y="4.5" width="19" height="15" rx="2.5"/><path d="M10 9v6l5-3z"/></svg>VK Видео<span class="sr"> (в новой вкладке)</span></a><a href="https://rutube.ru/channel/15649489/" target="_blank" rel="noopener"><svg viewBox="0 0 24 24" fill="none" stroke="currentColor" stroke-width="1.8" stroke-linejoin="round" aria-hidden="true"><rect x="2.5" y="4.5" width="19" height="15" rx="2.5"/><path d="M10 9v6l5-3z"/></svg>Rutube<span class="sr"> (в новой вкладке)</span></a></nav><p class="foot__by">Создано: <a href="https://chelovek-neiroset.ru/" target="_blank" rel="noopener">Студия Vikey AI<span class="sr"> (в новой вкладке)</span></a></p></div></footer><aside class="mag" id="magnitola" aria-label="Плеер" aria-hidden="true"><div class="mag__bar"><span class="mag__rec mag__cas"><svg viewBox="0 0 40 28" aria-hidden="true"><rect x="1" y="1" width="38" height="26" rx="3" fill="#0B0D10" stroke="currentColor" stroke-width="1.5"/><rect x="6" y="5" width="28" height="6" rx="1" fill="none" stroke="rgba(242,242,238,.5)"/><circle cx="13" cy="18" r="3.5" fill="none" stroke="currentColor"/><circle cx="27" cy="18" r="3.5" fill="none" stroke="currentColor"/><path d="M9 27l3-4h16l3 4" fill="none" stroke="rgba(242,242,238,.4)"/></svg></span><p class="mag__t">Микс от Alex Freeman <span class="mag__hint">нажмите, чтобы развернуть</span> <small>Наломали дров #12 · 28 мая 2026</small></p><button class="mag__btn mag__min" type="button" aria-label="Свернуть плеер" aria-expanded="true" aria-controls="magbody"><svg viewBox="0 0 24 24" fill="none" stroke="currentColor" stroke-width="2" stroke-linecap="round" stroke-linejoin="round" aria-hidden="true"><path d="m6 9 6 6 6-6"/></svg></button><button class="mag__btn mag__close" type="button" aria-label="Закрыть плеер"><svg viewBox="0 0 24 24" fill="none" stroke="currentColor" stroke-width="2" stroke-linecap="round" aria-hidden="true"><path d="M6 6l12 12M18 6 6 18"/></svg></button></div><div class="mag__body" id="magbody"></div></aside></body></html>
